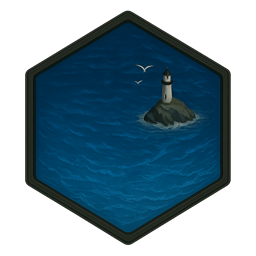
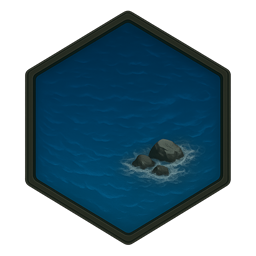
Make map more diversified

diff --git a/src/app/services/renderer.service.ts b/src/app/services/renderer.service.ts
@@ -1,4 +1,3 @@
-// src/app/services/renderer.service.ts
 import { Injectable } from '@angular/core';
 import { Application, Container, Sprite, Texture, Assets } from 'pixi.js';
 import { OVERLAY_MANIFEST } from '../models/overlays';
@@ -19,22 +18,13 @@ export class RendererService {
     return this.mapContainer;
   }
 
-  get application(): Application {
-    return this.app;
-  }
-
-  get ready(): boolean {
-    return this.initialized;
-  }
-
-  get textures(): Record<string, Texture>{
+  get textures(): Record<string, Texture> {
     return this.tileTextures;
   }
 
   /** Boot Pixi Application */
   async init(canvas: HTMLCanvasElement): Promise<void> {
     if (this.app) {
-      console.log('♻ Reboot Pixi instance');
       this.app.destroy(true, { children: true, texture: false, context: true });
     }
 
@@ -42,7 +32,7 @@ export class RendererService {
     await this.app.init({
       resizeTo: canvas.parentElement!,
       backgroundColor: 0x111111,
-      canvas
+      canvas,
     });
 
     this.mapContainer = new Container();
@@ -52,53 +42,73 @@ export class RendererService {
     window.addEventListener('resize', () => this.centerCamera());
   }
 
-  /** Load terrain tiles */
+  /** 🔥 Nouvelle version clean : auto-chargement des variantes terrain-n.png */
   async loadTileTextures(): Promise<void> {
-    if (Object.keys(this.tileTextures).length > 0) return;
+    this.tileTextures = {}; // reset complet
 
-    const manifest = await fetch('assets/tiles/tiles.json').then(res => res.json());
-    for (const [key, path] of Object.entries(manifest)) {
-      this.tileTextures[key] = await Assets.load(path as string);
+    const terrains = [
+      'plain', 'forest', 'desert', 'mountain',
+      'volcano', 'sea', 'jungle', 'swamp', 'fog'
+    ];
+
+    const fallback = 'assets/tiles/plain-1.png';
+
+    for (const terrain of terrains) {
+      let variantIndex = 1;
+      let foundAny = false;
+
+      while (true) {
+        const path = `assets/tiles/${terrain}-${variantIndex}.png`;
+        try {
+          const tex = await Assets.load(path);
+          this.tileTextures[`${terrain}-${variantIndex}`] = tex;
+          foundAny = true;
+          variantIndex++;
+        } catch {
+          break;
+        }
+      }
+
+      if (!foundAny) {
+        console.warn(`⚠ No variants found for ${terrain}, using fallback plain-1.png`);
+        const tex = await Assets.load(fallback);
+        this.tileTextures[`${terrain}-1`] = tex;
+      }
     }
+
+    const fogKey = Object.keys(this.tileTextures).find(k => k.startsWith('fog-'));
+    if (fogKey) {
+      this.tileTextures['fog'] = this.tileTextures[fogKey];
+    } else {
+      console.warn('⚠ Missing fog texture, using plain-1 as fallback.');
+      this.tileTextures['fog'] = this.tileTextures['plain-1'];
+    }
+
     console.log(`🧩 ${Object.keys(this.tileTextures).length} tile textures loaded.`);
   }
 
-  /** Load overlay icons from manifest */
+  /** Overlays (inchangé) */
   async loadOverlayTextures(): Promise<void> {
-    if (Object.keys(this.overlayTextures).length > 0) return;
-
+    this.overlayTextures = {};
     for (const [key, info] of Object.entries(OVERLAY_MANIFEST)) {
       if (!info.icon) continue;
       try {
         this.overlayTextures[key] = await Assets.load(info.icon);
       } catch {
-        const fallback = `assets/overlays/${key}.png`;
-        try {
-          this.overlayTextures[key] = await Assets.load(fallback);
-          console.warn(`⚠ Missing ${info.icon}, used fallback ${fallback}`);
-        } catch {
-          console.warn(`⚠ Could not load overlay "${key}" (${info.icon})`);
-        }
+        console.warn(`⚠ Could not load overlay "${key}" (${info.icon})`);
       }
     }
     console.log(`🧿 ${Object.keys(this.overlayTextures).length} overlay textures loaded.`);
   }
 
-  /** Load player texture from archetype */
+  /** Player */
   async loadPlayerTexture(archetype: Archetype): Promise<Texture> {
-    const path = CHARACTER_ASSETS[archetype]; // ✅ maintenant reconnu comme une clé valide
+    const path = CHARACTER_ASSETS[archetype];
     if (!path) throw new Error(`No asset for archetype "${archetype}"`);
-
-    if (Assets.cache.has(path)) {
-      console.log('♻ Unload previous player texture:', path);
-      await Assets.unload(path);
-    }
-
     this.playerTexture = await Assets.load(path);
     return this.playerTexture;
   }
 
-  /** Create an overlay sprite */
   createOverlaySprite(kind: string, x: number, y: number, size: number): Sprite | null {
     const tex = this.overlayTextures[kind];
     if (!tex) return null;
@@ -112,7 +122,6 @@ export class RendererService {
     return s;
   }
 
-  /** Create the player sprite */
   createPlayerSprite(size: number): Sprite {
     if (!this.playerTexture) throw new Error('Player texture not loaded');
     const s = new Sprite(this.playerTexture);
@@ -123,28 +132,17 @@ export class RendererService {
     return s;
   }
 
-  /** Camera centering */
-  centerCamera(q: number = 0, r: number = 0, size = 80): void {
+  centerCamera(q = 0, r = 0, size = 80): void {
     if (!this.app || !this.mapContainer) return;
     const x = size * Math.sqrt(3) * (q + r / 2);
     const y = size * 1.5 * r;
-    const targetX = this.app.screen.width / 2 - x;
-    const targetY = this.app.screen.height / 2 - y;
-    this.mapContainer.x = targetX;
-    this.mapContainer.y = targetY;
+    this.mapContainer.x = this.app.screen.width / 2 - x;
+    this.mapContainer.y = this.app.screen.height / 2 - y;
   }
 
-  /** Cleanup */
   clear(): void {
     if (!this.app) return;
-
-    try {
-      console.log('🧹 Destroying Pixi renderer...');
-      this.app.destroy(true, { children: true, texture: false, context: true });
-    } catch (e) {
-      console.warn('⚠ Error while destroying Pixi:', e);
-    }
-
+    this.app.destroy(true, { children: true, texture: false, context: true });
     this.tileTextures = {};
     this.overlayTextures = {};
     this.playerTexture = undefined;

diff --git a/src/app/factories/tile.factory.ts b/src/app/factories/tile.factory.ts
@@ -1,6 +1,14 @@
 import { Container, Sprite, Texture } from 'pixi.js';
 
-export type Terrain = 'plain' | 'forest' | 'desert' | 'mountain' | 'volcano' | 'sea' | 'jungle' | 'swamp';
+export type Terrain =
+  | 'plain'
+  | 'forest'
+  | 'desert'
+  | 'mountain'
+  | 'volcano'
+  | 'sea'
+  | 'jungle'
+  | 'swamp';
 export type AllTerrains = Terrain | 'fog';
 
 export interface TileOptions {
@@ -9,23 +17,65 @@ export interface TileOptions {
   size: number;
   terrain: Terrain;
   container: Container;
-  textures: Record<AllTerrains, Texture>;
+  textures: Record<string, Texture>;
   onClick?: () => void;
+  variantKey?: string;
+}
+
+function getWeightedRandom<T extends string>(choices: { value: T; weight: number }[]): T {
+  const total = choices.reduce((sum, c) => sum + c.weight, 0);
+  const roll = Math.random() * total;
+  let acc = 0;
+  for (const c of choices) {
+    acc += c.weight;
+    if (roll <= acc) return c.value;
+  }
+  return choices[choices.length - 1].value;
+}
+
+function pickVariantKey(terrain: Terrain): string {
+  const weights = [
+    { suffix: 1, weight: 50 },
+    { suffix: 2, weight: 25 },
+    { suffix: 3, weight: 15 },
+    { suffix: 4, weight: 10 },
+  ];
+
+  const maxVariants: Record<Terrain, number> = {
+    plain: 4,
+    forest: 4,
+    desert: 4,
+    mountain: 4,
+    volcano: 4,
+    jungle: 4,
+    swamp: 4,
+    sea: 4,
+  };
+
+  const count = maxVariants[terrain] ?? 1;
+  const filtered = weights.filter(w => w.suffix <= count);
+
+  const choices = filtered.map(w => ({
+    value: `${terrain}-${w.suffix}`,
+    weight: w.weight,
+  }));
+
+  return getWeightedRandom(choices);
 }
 
 export function createTile(options: TileOptions): Container {
   const { x, y, size, terrain, container, textures, onClick } = options;
-
   const tileContainer = new Container();
 
-  // Sprite de la tuile
-  const base = new Sprite(textures[terrain]);
+  const variantKey = options.variantKey ?? pickVariantKey(terrain);
+  const texture = textures[variantKey] || textures['plain-1'];
+
+  const base = new Sprite(texture);
   base.width = size * 2;
   base.height = size * 2;
   base.x = -size;
   base.y = -size;
 
-  // Sprite du brouillard
   const fog = new Sprite(textures['fog']);
   fog.width = size * 2;
   fog.height = size * 2;
@@ -43,9 +93,9 @@ export function createTile(options: TileOptions): Container {
     tileContainer.on('pointerdown', onClick);
   }
 
-  // On stocke les sprites pour pouvoir les manipuler plus tard
   (tileContainer as any).base = base;
   (tileContainer as any).fog = fog;
+  (tileContainer as any).variantKey = variantKey;
 
   container.addChild(tileContainer);
   return tileContainer;

diff --git a/src/app/services/map.service.ts b/src/app/services/map.service.ts
@@ -15,6 +15,7 @@ export interface MapTileSnapshot {
   terrain: Terrain;
   discovered: boolean;
   overlay?: OverlayKind | null;
+  variant?: string
 }
 
 export interface MapSnapshot {
@@ -32,7 +33,7 @@ export class MapService {
   private size = 80;
 
   // --- Map Data ---
-  private tiles: Record<string, { gfx: Container; terrain: Terrain; discovered: boolean }> = {};
+  private tiles: Record<string, { gfx: Container; terrain: Terrain; discovered: boolean, variant: string }> = {};
   private overlaySprites: Record<string, Sprite[]> = {};
   private overlayTypes: Record<string, OverlayKind[]> = {};
 
@@ -107,11 +108,16 @@ export class MapService {
             size: this.size,
             terrain,
             container: this.renderer.container,
-            textures: this.renderer.textures,            
+            textures: this.renderer.textures,
             onClick: () => this.movePlayer(q, r)
           });
 
-          this.tiles[`${q},${r}`] = { gfx: tile, terrain, discovered: false };
+          this.tiles[`${q},${r}`] = { 
+            gfx: tile, 
+            terrain,
+            discovered: false,
+            variant: (tile as any).variantKey ?? `${terrain}-1` 
+          };
 
           const overlay = this.pickOverlayForTerrain(terrain);
           if (overlay !== OverlayKind.None) this.addOverlay(q, r, overlay);
@@ -222,7 +228,8 @@ export class MapService {
         r: Number(rs),
         terrain: entry.terrain,
         discovered: entry.discovered,
-        overlay: (entry as any).overlay ?? null
+        overlay: (entry as any).overlay ?? null,
+        variant: (entry as any).variant ?? `${entry.terrain}-1`
       });
     }
 
@@ -325,19 +332,25 @@ export class MapService {
 
     for (const tile of snapshot.tiles) {
       const { x, y } = this.hexToPixel(tile.q, tile.r);
+      const variantKey = tile.variant ?? `${tile.terrain}-1`;
+    
       const tileContainer = createTile({
         x, y,
         size: this.size,
         terrain: tile.terrain ?? 'plain',
         container: this.renderer.container,
         textures: this.renderer.textures,
-        onClick: () => this.movePlayer(tile.q, tile.r)
+        onClick: () => this.movePlayer(tile.q, tile.r),
+        variantKey
       });
+    
       this.tiles[tile.key] = {
         gfx: tileContainer,
         terrain: tile.terrain,
-        discovered: tile.discovered
+        discovered: tile.discovered,
+        variant: variantKey
       };
+    
       const tileGfx = tileContainer as any;
       if (tileGfx.fog) tileGfx.fog.visible = !tile.discovered;
     }

diff --git a/src/app/inventory-panel/inventory-panel.component.html b/src/app/inventory-panel/inventory-panel.component.html
@@ -88,7 +88,7 @@
     
       <p class="item-text">{{ selectedItem.description }}</p>
     
-      @if (selectedItem.effects?.length) {
+      @if (selectedItem.effects.length) {
         <ul class="item-effects">
           @for (eff of selectedItem.effects; track eff.stat + '-' + eff.value) {
             <li>
